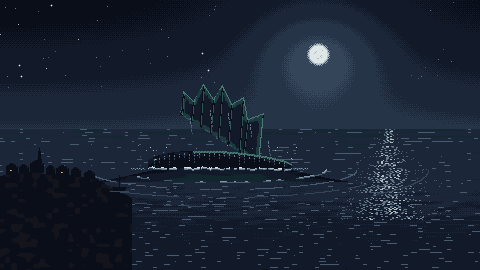
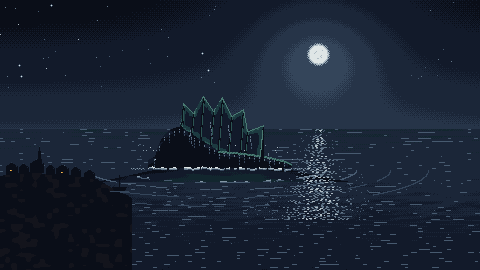
Train the raider's gun on our ship, and in the last picture put the moon's road under the moon and the crest on the head
From the owner's playtest of 2026-11-19. The deck gun pointed up into the moon; it is trained left now, over the bow
toward the captured ship and the open water, dark against the sky with the moon along its top. The mount, the guard
and both ships stay where they were.

In the last picture the moon's road lay 70 px right of the moon; it runs under it now, over the lifted swell and never
over the creature. The crest, the reveal's own image, stood above the back with sea under its sloping foot; it is sunk
12 px, and the head rises under it to meet its lowest pixel in each column, rounding down into the back on the left.

Changed region(s): [[0.3125, 0.3259, 0.5625, 0.5926], [0.5938, 0.4741, 0.7188, 0.8296], [0.75, 0.4741, 0.875, 0.8296]]

diff --git a/tools/art/gen_ending.py b/tools/art/gen_ending.py
@@ -501,23 +501,38 @@ def panel_rising():
     horizon = 128
     night_sea(img, noise, top=horizon, calm=0.6)
     hline(img, 0, W - 1, horizon, "C3")
-    moon_road(img, noise, gen_shore.MOON[0] + 70, horizon + 1, CLEAR_OF_THE_CARD + 30, 34)
     # What breaks the water: the crest, and under it the top of the head it stands on, a long low back.
     cx, sea = 222, 166
     crest = crest_of_the_reveal()
-    img.alpha_composite(crest, (cx - 42, sea - 18 - crest.height + 16))
+    # Sunk a little into the water, so the head under it rises less far to meet it.
+    sink = 12
+    crest_x, crest_y = cx - 42, sea - 18 - crest.height + 16 + sink
+    img.alpha_composite(crest, (crest_x, crest_y))
+    # The crest's foot slopes as it does on the reveal's turned head, so the head rises under it to meet it: in each
+    # column the body comes up to the crest's lowest pixel, and on the left it rounds down into the back.
+    foot = {}
+    for col in range(crest.width):
+        ys = [y for y in range(crest.height) if crest.getpixel((col, y))[3] > 0]
+        if ys:
+            foot[crest_x + col] = crest_y + max(ys) + 1
+    first = min(foot)
+    shoulder = 26
+    for x in range(first - shoulder, first):
+        k = (x - first + shoulder) / shoulder
+        foot[x] = round(sea - (sea - foot[first]) * math.sqrt(max(0.0, 1 - (1 - k) ** 2)))
     back = {}
     for x in range(cx - 74, cx + 70):
         t = (x - cx + 4) / 74.0
         rise = 15 * math.sqrt(max(0.0, 1 - t * t)) * (1.0 - 0.25 * t)
         if rise < 1:
             continue
-        top = round(sea - rise)
+        top = min(round(sea - rise), foot.get(x, sea))
+        under_crest = top < round(sea - rise)
         back[x] = top
         for y in range(top, sea + 2):
-            lit = y - top < 2 and x > cx - 30
+            lit = y - top < 2 and x > cx - 30 and not under_crest
             put(img, x, y, ("T3" if (x + y) % 3 else "T2") if lit else ("C1" if y - top < 5 and noise(x / 5.0, y / 3.0) > 0.5 else "C0"))
-    # The sea it has lifted: a dark swell standing round it, the moon's road bent on its near slope, and the rings
+    # The sea it has lifted: a dark swell standing round it, and the rings
     # running out from it across the calm.
     for y in range(sea - 4, sea + 16):
         for x in range(cx - 130, cx + 126):
@@ -535,6 +550,15 @@ def panel_rising():
                 put(img, x, y, "C5" if ring < 2 else "C4")
                 if ring == 0 and noise(x / 3.0, 2.0) > 0.55:
                     put(img, x, y - 1, "C7")
+    # The moon's road, straight under the moon, over the swell and the rings, and never over the creature.
+    road = blank(W, H)
+    moon_road(road, noise, gen_shore.MOON[0], horizon + 1, CLEAR_OF_THE_CARD + 30, 34)
+    for y in range(horizon + 1, H):
+        for x in range(W):
+            stroke = road.getpixel((x, y))
+            on_crest = 0 <= x - crest_x < crest.width and 0 <= y - crest_y < crest.height and crest.getpixel((x - crest_x, y - crest_y))[3] > 0
+            if stroke[3] and not on_crest and not (x in back and y <= sea + 1):
+                img.putpixel((x, y), stroke)
     # White water where its back leaves the sea, and the sea pouring off the crest and the back.
     for x in sorted(back):
         if noise(x / 2.5, 7.0) > 0.25:
@@ -551,7 +575,7 @@ def panel_rising():
         for k in range(length):
             if (k + x) % 3:
                 put(img, x, back[x] + 2 + k, "C6" if k < 3 else "C4")
-    for tip_x, tip_y in ((cx - 36, sea - 62), (cx - 16, sea - 70), (cx + 2, sea - 68), (cx + 24, sea - 56), (cx + 42, sea - 40)):
+    for tip_x, tip_y in ((cx - 36, sea - 62 + sink), (cx - 16, sea - 70 + sink), (cx + 2, sea - 68 + sink), (cx + 24, sea - 56 + sink), (cx + 42, sea - 40 + sink)):
         length = rng.randrange(10, 22)
         for k in range(length):
             if (k + tip_x) % 4:

diff --git a/tools/art/gen_prologue.py b/tools/art/gen_prologue.py
@@ -21,7 +21,7 @@ import random
 from PIL import ImageDraw
 
 import gen_shore
-from art_common import Noise, blank, hline, put, ramp
+from art_common import Noise, blank, hline, line, put, ramp
 from palette import rgba
 
 W, H = 480, 270
@@ -135,9 +135,17 @@ def panel_raider_layers():
         for x in range(190, W):
             if noise(x / 6.0, y) > 0.55:
                 put(img, x, y, "C5")
-    # The deck: a gun along it, and a guard with a rifle on his shoulder.
-    ImageDraw.Draw(img).line([(260, 56), (318, 44)], fill=rgba("C1"), width=3)
-    fill(img, [(244, 58), (270, 58), (268, 50), (248, 50)], "C1")
+    # The deck: a gun trained over the bow on our ship, out over the open water to the left and a little down, its
+    # barrel against the sky above the rail and well clear of the moon; its breech behind the mount. And a guard with
+    # a rifle on his shoulder.
+    fill(img, [(244, 58), (270, 58), (268, 50), (248, 50)], "C0")
+    fill(img, [(268, 51), (275, 52), (275, 56), (268, 56)], "C0")
+    ImageDraw.Draw(img).line([(248, 53), (203, 55)], fill=rgba("C0"), width=3)
+    fill(img, [(200, 53), (204, 53), (204, 57), (200, 57)], "C0")
+    # The moon behind it catches the top of the shield, the barrel and the muzzle.
+    hline(img, 249, 267, 49, "C4")
+    line(img, 247, 51, 205, 53, "C4")
+    hline(img, 200, 204, 52, "C4")
     fill(img, [(372, 58), (372, 46), (370, 42), (372, 38), (376, 38), (378, 42), (376, 46), (376, 58)], "C1")
     ImageDraw.Draw(img).line([(377, 40), (382, 30)], fill=rgba("C1"))
     for cx in (240, 290, 340, 390, 440):
